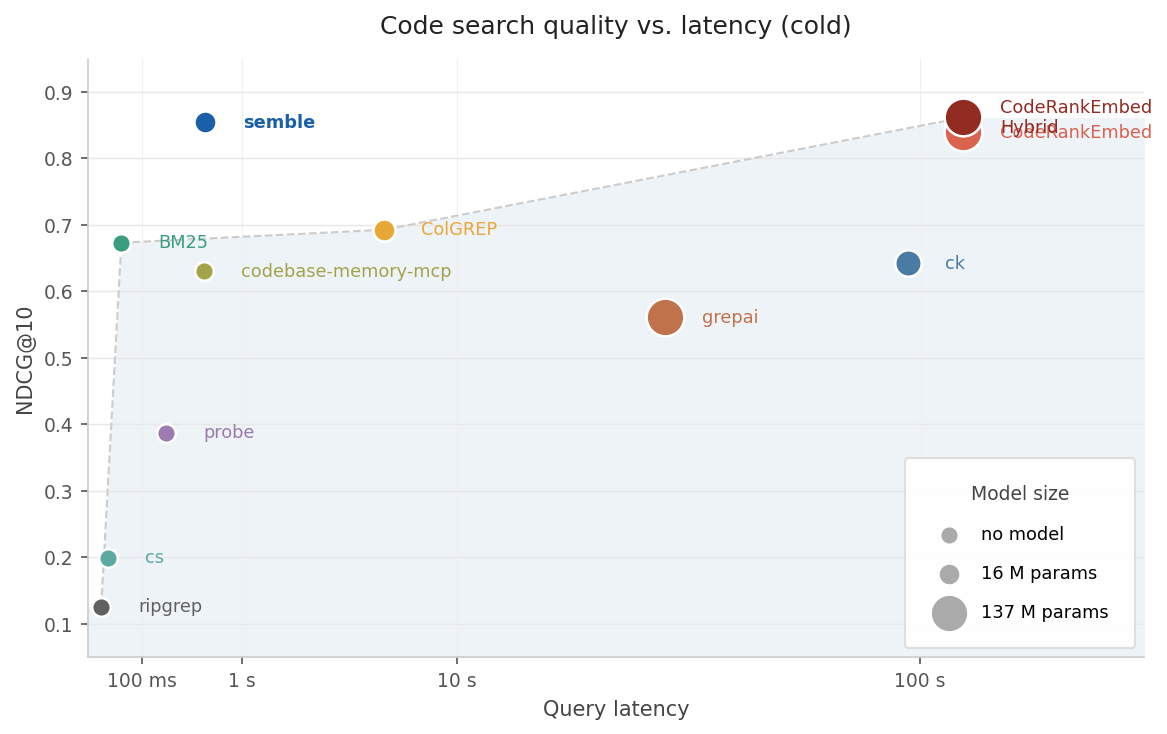
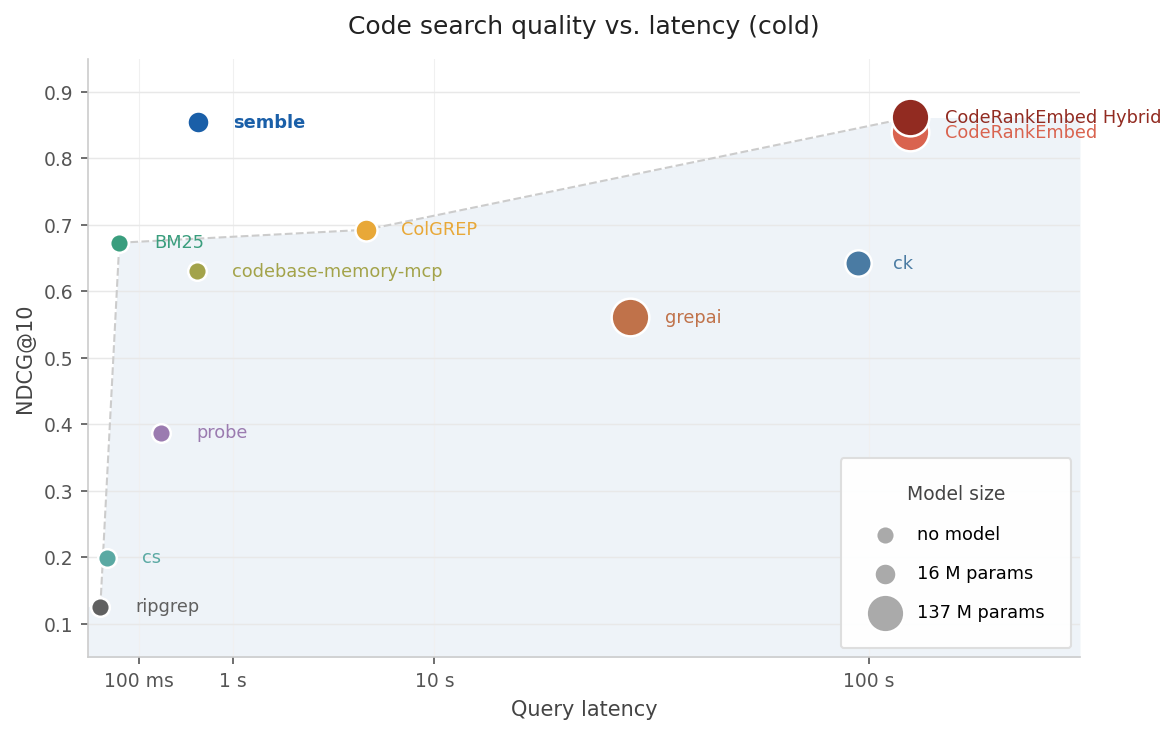
Fix overlapping CodeRankEmbed labels in speed-vs-quality plots
CodeRankEmbed and CodeRankEmbed Hybrid now score and query close enough that their
two-line "CodeRankEmbed\nHybrid" label collided with the plain "CodeRankEmbed" label.
Single-line it so both labels sit cleanly next to their own marker.

diff --git a/benchmarks/plot.py b/benchmarks/plot.py
@@ -94,7 +94,7 @@ _METHODS: list[_Method] = [
         "params_m": 137,
     },
     {
-        "name": "CodeRankEmbed\nHybrid",
+        "name": "CodeRankEmbed Hybrid",
         "ndcg10": 0.8613,
         "index_ms": 115859.8,
         "query_p50_ms": 15.56,
@@ -120,8 +120,8 @@ _CBRT_LABEL_DELTA_WARM = 0.2
 # Cold: incumbent prior-art curve (ripgrep → BM25 → ColGREP → CRE Hybrid); semble floats above it.
 # Warm: BM25 dominates ripgrep (faster and higher NDCG), so incumbent curve is BM25 → CRE Hybrid.
 _FRONTIER_NAMES: dict[str, set[str]] = {
-    "cold": {"ripgrep", "BM25", "ColGREP", "CodeRankEmbed\nHybrid"},
-    "warm": {"BM25", "CodeRankEmbed\nHybrid"},
+    "cold": {"ripgrep", "BM25", "ColGREP", "CodeRankEmbed Hybrid"},
+    "warm": {"BM25", "CodeRankEmbed Hybrid"},
 }
 
 
